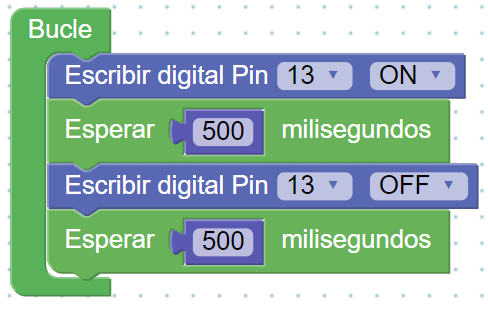
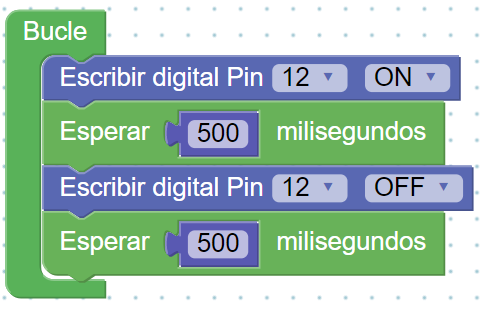
añadido semáforo
añadido semáforo

diff --git a/ArduinoBlocks/semáforo_v.md b/ArduinoBlocks/semáforo_v.md
@@ -1,16 +1,38 @@
-# Ledes alternativos
+# Proyecto 4: Semáforo para vehículos
 
-Nos complicamos ahora un poco más la vida: disponemos en nuestro montaje de dos ledes, uno verde y uno rojo. Mientras encendemos uno, apagamos el otro y viceversa.
+Llega el momento de darle un poco de color a los ledes que utilizamos en nuestros montajes.
+Parece, entonces, lógico realizar un proyecto como un semáforo.
+En él ya tendremos que incluir tres luces (antes hemos hecho un proyecto con ocho, tranquil@s). Lo importante es que ahora tendrán que estar **sincronizadas**. Bueno, no es que antes no lo estuvieran, pero ahora quedarán con más estilo.
[1 lines of base64/hex data omitted]
 
-## [Montaje en Tinkercad](https://www.tinkercad.com/things/cmflkUUKtsg-2-leds-alternativos)
+En nuestro semáforo, vamos a fijar los siguientes tiempos para cada una de las luces:
+- Luz roja: 6 segundos
+- Luz ámbar: 1 segundo
+- Luz verde: 3 segundos
 
-![](imágenes/ledes_alternativos.png)
+La duración de un ciclo completo será, pues, de 10 segundos.
+
+## [Montaje en Tinkercad](https://www.tinkercad.com/things/f83grFjS9rd-4-semaforo-para-trafico-rodado-bloques)
+
+[![](imágenes/semáforo_v.png)](https://www.tinkercad.com/things/f83grFjS9rd-4-semaforo-para-trafico-rodado-bloques "Ver el circuito en TinkerCAD")
 
 ## Vídeo
 
 
 [![Haz clic para ir al vídeo](http://img.youtube.com/vi/JNdshfI1XXM/0.jpg)](http://www.youtube.com/watch?v=JNdshfI1XXM "Ledes alternativos")
 
-## [Visualiza el código Arduino](ledes_alternativos/ledes_alternativos.ino)
+
+## Código en TinkerCAD
+![](imágenes/TinkerSemáforoV.png)
+
+## Código en ArduinoBlocks
+![](imágenes/ABSemáforoV.png)
+
+
+Puedes ver más información y el código completo en [este enlace](http://www.arduinoblocks.com/web/project/10362)
+
+## Mira cómo funciona
+
+[![Haz clic para ir al vídeo](http://img.youtube.com/vi/uh8oL_65_wE/0.jpg)](https://youtu.be/uh8oL_65_wE "Pulsa para ver el vídeo")
 
 

diff --git a/ArduinoBlocks/arduinoblocks.md b/ArduinoBlocks/arduinoblocks.md
@@ -1,0 +1,14 @@
+# ArduinoBlocks
+
+![](http://www.arduinoblocks.com/web/images/arduinoblockslogo.png)
+
+[**ArduinoBlocks**](http://www.arduinoblocks.com) es una potente herramienta que permite al alumnado iniciarse fácilmente en la programación de Arduino a través de un entorno de programación muy intuitivo.
+
+Vamos a ir realizando una serie de ejemplos que, progresivamente, te van a ir introduciendo en el mundillo de ArduinoBlocks y de Arduino.
+
+## Programas
+1. [Blink u "hola mundo"](led_blink.md)
+2. [Ledes alternativos](ledes_alternativos.md)
+3. [El Coche Fantástico](kitt.md)
+4. [Semáforo para vehículos](semáforo_v.md)
+5. [Semáforo para peatones](semáforo_vp.md)

diff --git a/ArduinoBlocks/semáforo_vp.md b/ArduinoBlocks/semáforo_vp.md
@@ -1,6 +1,8 @@
-# Ledes alternativos
+# Semáforo para vehículos y peatones
 
-Nos complicamos ahora un poco más la vida: disponemos en nuestro montaje de dos ledes, uno verde y uno rojo. Mientras encendemos uno, apagamos el otro y viceversa.
+Añadimos ahora dos luces para que pueda regularse, además del tráfico de vehículos, el paso de los peatones.
+Si te fijas bien, esto último no es sino lo que hicimos en el montaje número 2, correspondiente a los ledes alternativos. Eso sí, ahora hay que sincronizar con las tres luces del semáforo del ejemplo anterior.
+
 
 ## [Montaje en Tinkercad](https://www.tinkercad.com/things/cmflkUUKtsg-2-leds-alternativos)
 
